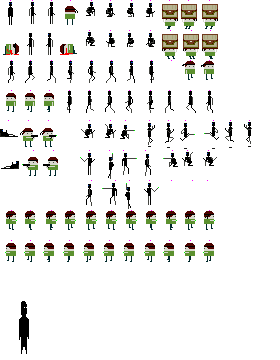
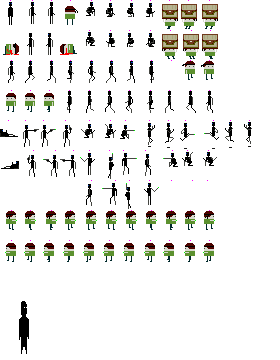
Continue to change main actor sprites appearance. I don't like fatty look of this one.

Changed region(s): [[0.0571, 0.3361, 0.2857, 0.4889], [0.2286, 0.3361, 0.2571, 0.3972]]

diff --git a/actors_description.py b/actors_description.py
@@ -1611,10 +1611,10 @@ player_jake = {
         },
         'pistol shot right': {
             'repeat': False, 'interruptable': True,
-            'sequence': (57,57,58,58,57,57,57,57),  # 0 - 474, 74, 74, 74, 75, 75),  # 5 - 9
+            'sequence': (57,57,57,58,58,59,59,59,59),  # 0 - 474, 74, 74, 74, 75, 75),  # 5 - 9
             'speed': 1,
             'activity at frames': {
-                2: {
+                3: {
                     'sound': True,
                     # 'move': 10,  # Slightly move actor forward,
                     'demolishers set number': 0,
@@ -1625,10 +1625,10 @@ player_jake = {
         },
         'pistol shot left': {
             'repeat': False, 'interruptable': True,
-            'sequence': (72,72,71,71,72,72,72,72,),  # 0 - 474, 74, 74, 74, 75, 75),  # 5 - 9
+            'sequence': (73,73,73,72,72,71,71,71,71),  # 0 - 474, 74, 74, 74, 75, 75),  # 5 - 9
             'speed': 1,
             'activity at frames': {
-                2: {
+                3: {
                     'sound': True,
                     # 'move': 10,  # Slightly move actor forward,
                     'demolishers set number': 0,
